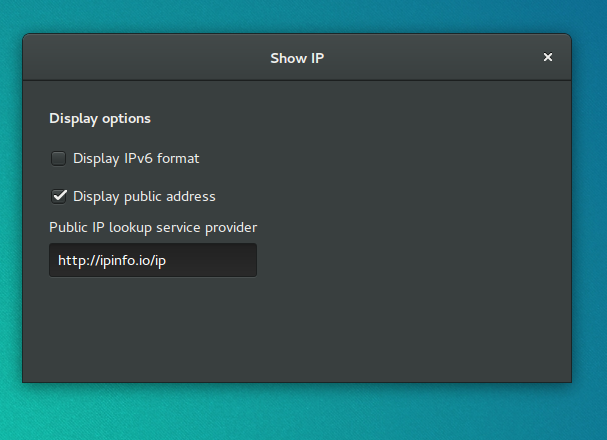
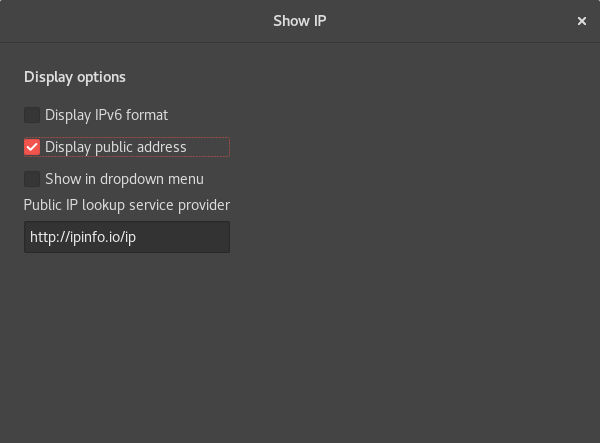
update README

diff --git a/README.md b/README.md
@@ -23,6 +23,11 @@ display public IP. Button for copying IP address into clipboard. Available in En
 ![Show IP extension preference menu](show_ip_pref_menu_screenshot.png?raw=true
  "Show IP pref menu GNOME extension")
 
+> IP display in GNOME dropdown menu instead of GNOME shell status bar (not selected by default)
+
+![Show IP extension in dropdown menu](show_ip_dropdown_menu_screenshot.png?raw=true
+ "Show IP dropdown menu GNOME extension")
+
 
 ### Installation
 
@@ -63,12 +68,17 @@ has to be enabled with *gnome-tweak-tool*
 :sweat_smile: Bugs should be reported to the Github [bug tracker
 issues](https://github.com/sgaraud/gnome-extension-show-ip/issues).
 
-### Authors
+### Author
 
   * sgaraud (Sylvain Garaud)
+  
+### Contributors
+
   * rigelk (Pierre-Antoine Rault)
   * RaphaelRochet (Raphaël Rochet) 
   * paddatrapper (Kyle Robbertze)
+  * pabs3 (Paul Wise)
+  * lkundrak (Lubomir Rintel)
 
 ### License
 
